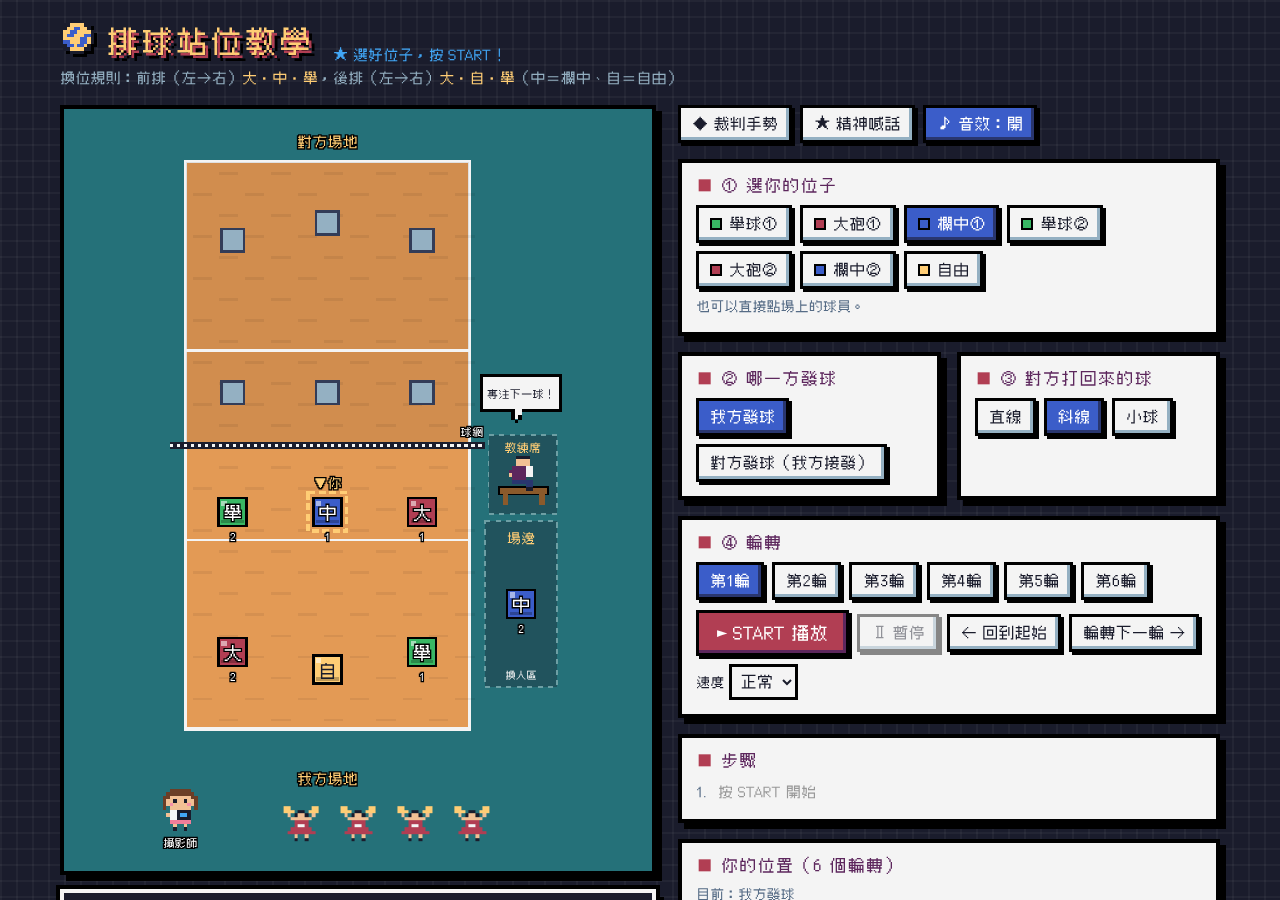
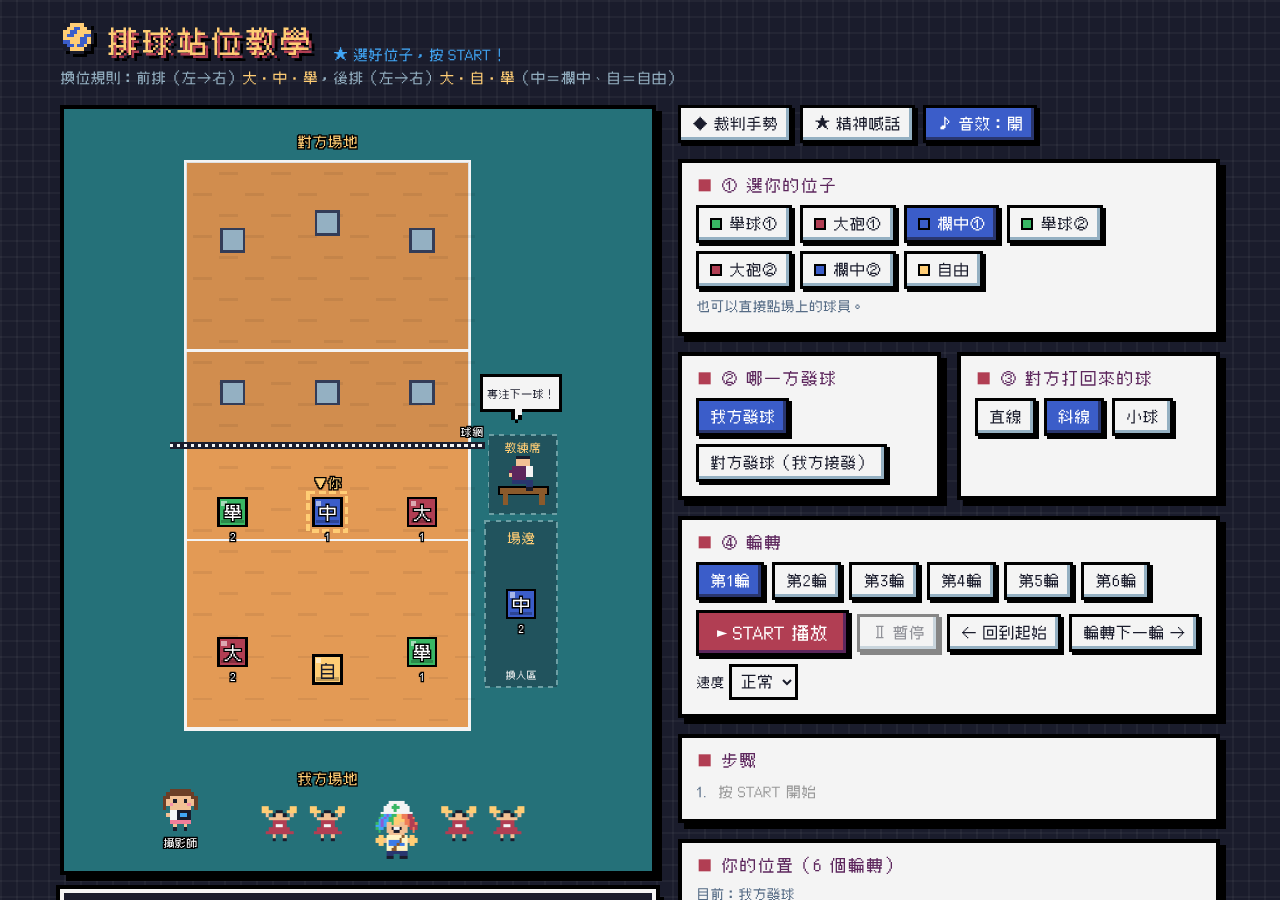
新增啦啦隊會長像素角色
Claude-Session: https://claude.ai/code/session_0111Jq42HSaSmuEgEPrctLA6

Changed region(s): [[0.1875, 0.8711, 0.4062, 0.9644]]

diff --git a/index.html b/index.html
@@ -377,7 +377,8 @@ function drawArt(){
 /* ---------- 場邊人物：攝影師、教練席、啦啦隊 ---------- */
 const PEOPLE_COL = {H:'#1a1c2c', S:'#f2c094', C:'#566c86', K:'#1a1c2c', G:'#41a6f6', L:'#29366f',
   P:'#5d275d', W:'#f4f4f4', R:'#b13e53', Y:'#ffcd75', B:'#8b5a2b',
-  N:'#6b3e26', Q:'#f58fa8', M:'#ef7d9a'};
+  N:'#6b3e26', Q:'#f58fa8', M:'#ef7d9a',
+  V:'#8a5cd6', O:'#ef7d57', E:'#fff3c4', J:'#29366f'};
 const SPRITES = {
   photographer: [
     '..NNNNNN..',
@@ -405,6 +406,30 @@ const SPRITES = {
     '......LL..',
     '......KK..'
   ],
+  captain: [
+    '.....WWWWWW.....',
+    '....WWWGWWWW....',
+    '...WWWGGGWWWW...',
+    '...WWWWGWWWWW...',
+    '..WWWWWWWWWWWW..',
+    '..GBVBGGYYOORR..',
+    '.GBVBGGYYYOORRO.',
+    '.BVBBGGYYYYOORR.',
+    'GBVBSSGYYSSOORRO',
+    'BBVBSSSSSSSSORRR',
+    'GBB.SSKWWKSS.ROR',
+    '.G..SSSKKSSS..O.',
+    '.....SSSSSS.....',
+    '.YY.EEEEEENE.YY.',
+    'YYYYEEEEENEEYYYY',
+    'YYYSELLLLNEESYYY',
+    '.YY.ELLLNLLE.YY.',
+    '....EEENEEEE....',
+    '....EENNEEEE....',
+    '....JJJJJJJJ....',
+    '....JJJ..JJJ....',
+    '....KKK..KKK....'
+  ],
   cheer: [
     'YY......YY',
     'YYY.HH.YYY',
@@ -418,9 +443,12 @@ const SPRITES = {
     '...K..K...'
   ]
 };
+const CAPTAIN_COL = {W:'#f4f4f4', G:'#38b764', B:'#41a6f6', V:'#8a5cd6', Y:'#ffcd75', O:'#ef7d57', R:'#b13e53', S:'#f2c094',
+  K:'#1a1c2c', E:'#fff3c4', L:'#3b7be8', N:'#8b5a2b', J:'#29366f'};
 function sprite(g, name, x, y, size){
+  const PAL = name === 'captain' ? CAPTAIN_COL : PEOPLE_COL;
   SPRITES[name].forEach((row, r) => [...row].forEach((ch, c) => {
-    if (PEOPLE_COL[ch]) el('rect', {x:x + c*size, y:y + r*size, width:size, height:size, fill:PEOPLE_COL[ch]}, g);
+    if (PAL[ch]) el('rect', {x:x + c*size, y:y + r*size, width:size, height:size, fill:PAL[ch]}, g);
   }));
 }
 const COACH_LINES = ['專注下一球！','大聲喊聲！','腳站穩送球！','攔網手要硬！','不接就要喊！','看到吊球要喊！','欄中快退！','好球！再一顆！'];
@@ -452,7 +480,10 @@ function drawDeco(){
   say.textContent = COACH_LINES[0];
   setInterval(() => { k = (k + 1) % COACH_LINES.length; say.textContent = COACH_LINES[k]; }, 2600);
   // 啦啦隊（底線後方）
-  [150, 215, 280, 345].forEach((x, n) => {
+  // 啦啦隊會長（彩虹爆炸頭＋安全帽）
+  const cap = el('g', {class:'hop d1'}, d);
+  sprite(cap, 'captain', 255, 790, 3);
+  [125, 180, 330, 385].forEach((x, n) => {
     const g = el('g', {class:'hop d' + (n % 3)}, d);
     sprite(g, 'cheer', x, 796, 4);
   });

diff --git a/README.md b/README.md
@@ -66,7 +66,7 @@
 ![裁判手勢](screenshots/referee.png)
 
 - **♪ 8-bit 音效**：哨音、發球、接球、舉球、扣球、攔網、輪轉、按鈕都有像素遊戲風的音效（用瀏覽器即時合成，不需要音檔）；右上角「♪ 音效」可以開關，會記住你的選擇
-- **場邊人物**：左下角有 Q 版女生攝影師（相機會閃光），右側場邊上方有教練席，教練會輪流喊話（例如「專注下一球！」「攔網手要硬！」），底線後方有會跳動的啦啦隊
+- **場邊人物**：左下角有 Q 版女生攝影師（相機會閃光），右側場邊上方有教練席，教練會輪流喊話（例如「專注下一球！」「攔網手要硬！」），底線後方有會跳動的啦啦隊（中間是戴安全帽、彩虹爆炸頭的啦啦隊會長）
 
 ### 手機版
 畫面會自動改成單欄，球場在上、操作按鈕在下。
